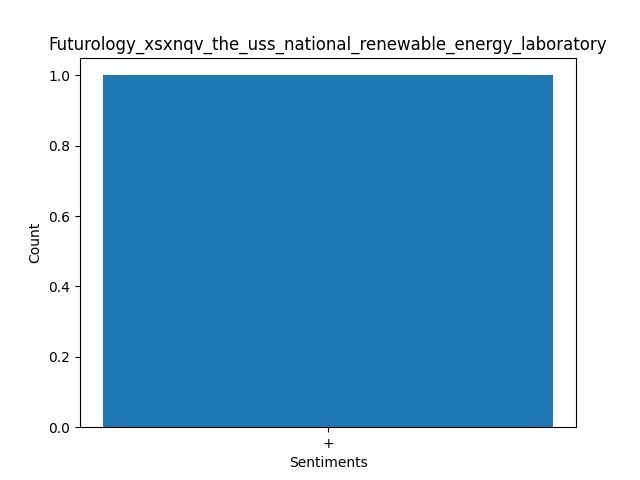
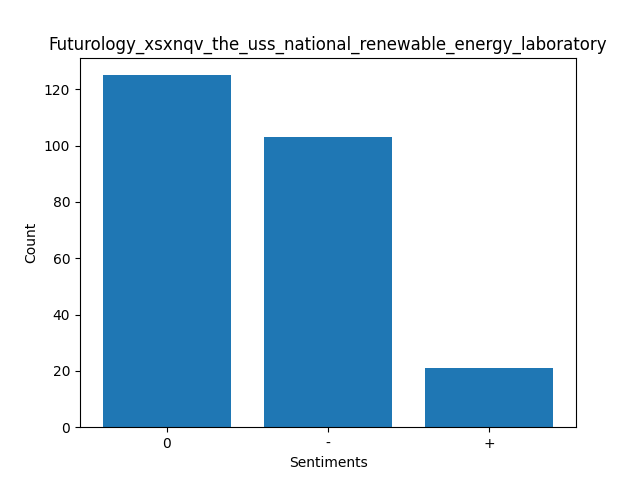
FINALLY got graphs to work. Issue was that the json files are dicts and not lists so to access the list was differnt than the orignal application

diff --git a/visualizer/reddit_pandas.py b/visualizer/reddit_pandas.py
@@ -15,8 +15,9 @@ def get_graph(vibe_dir, plot_dir):
                 df = pd.read_json(file_path)
 
                 if df is not None:
-                    vibe_count = df.loc[0].value_counts()
-                
+                    vibe_count = df.iloc[:, 0].value_counts()
+                    
+                    
                     # Reset graph
                     plt.clf()
                 
